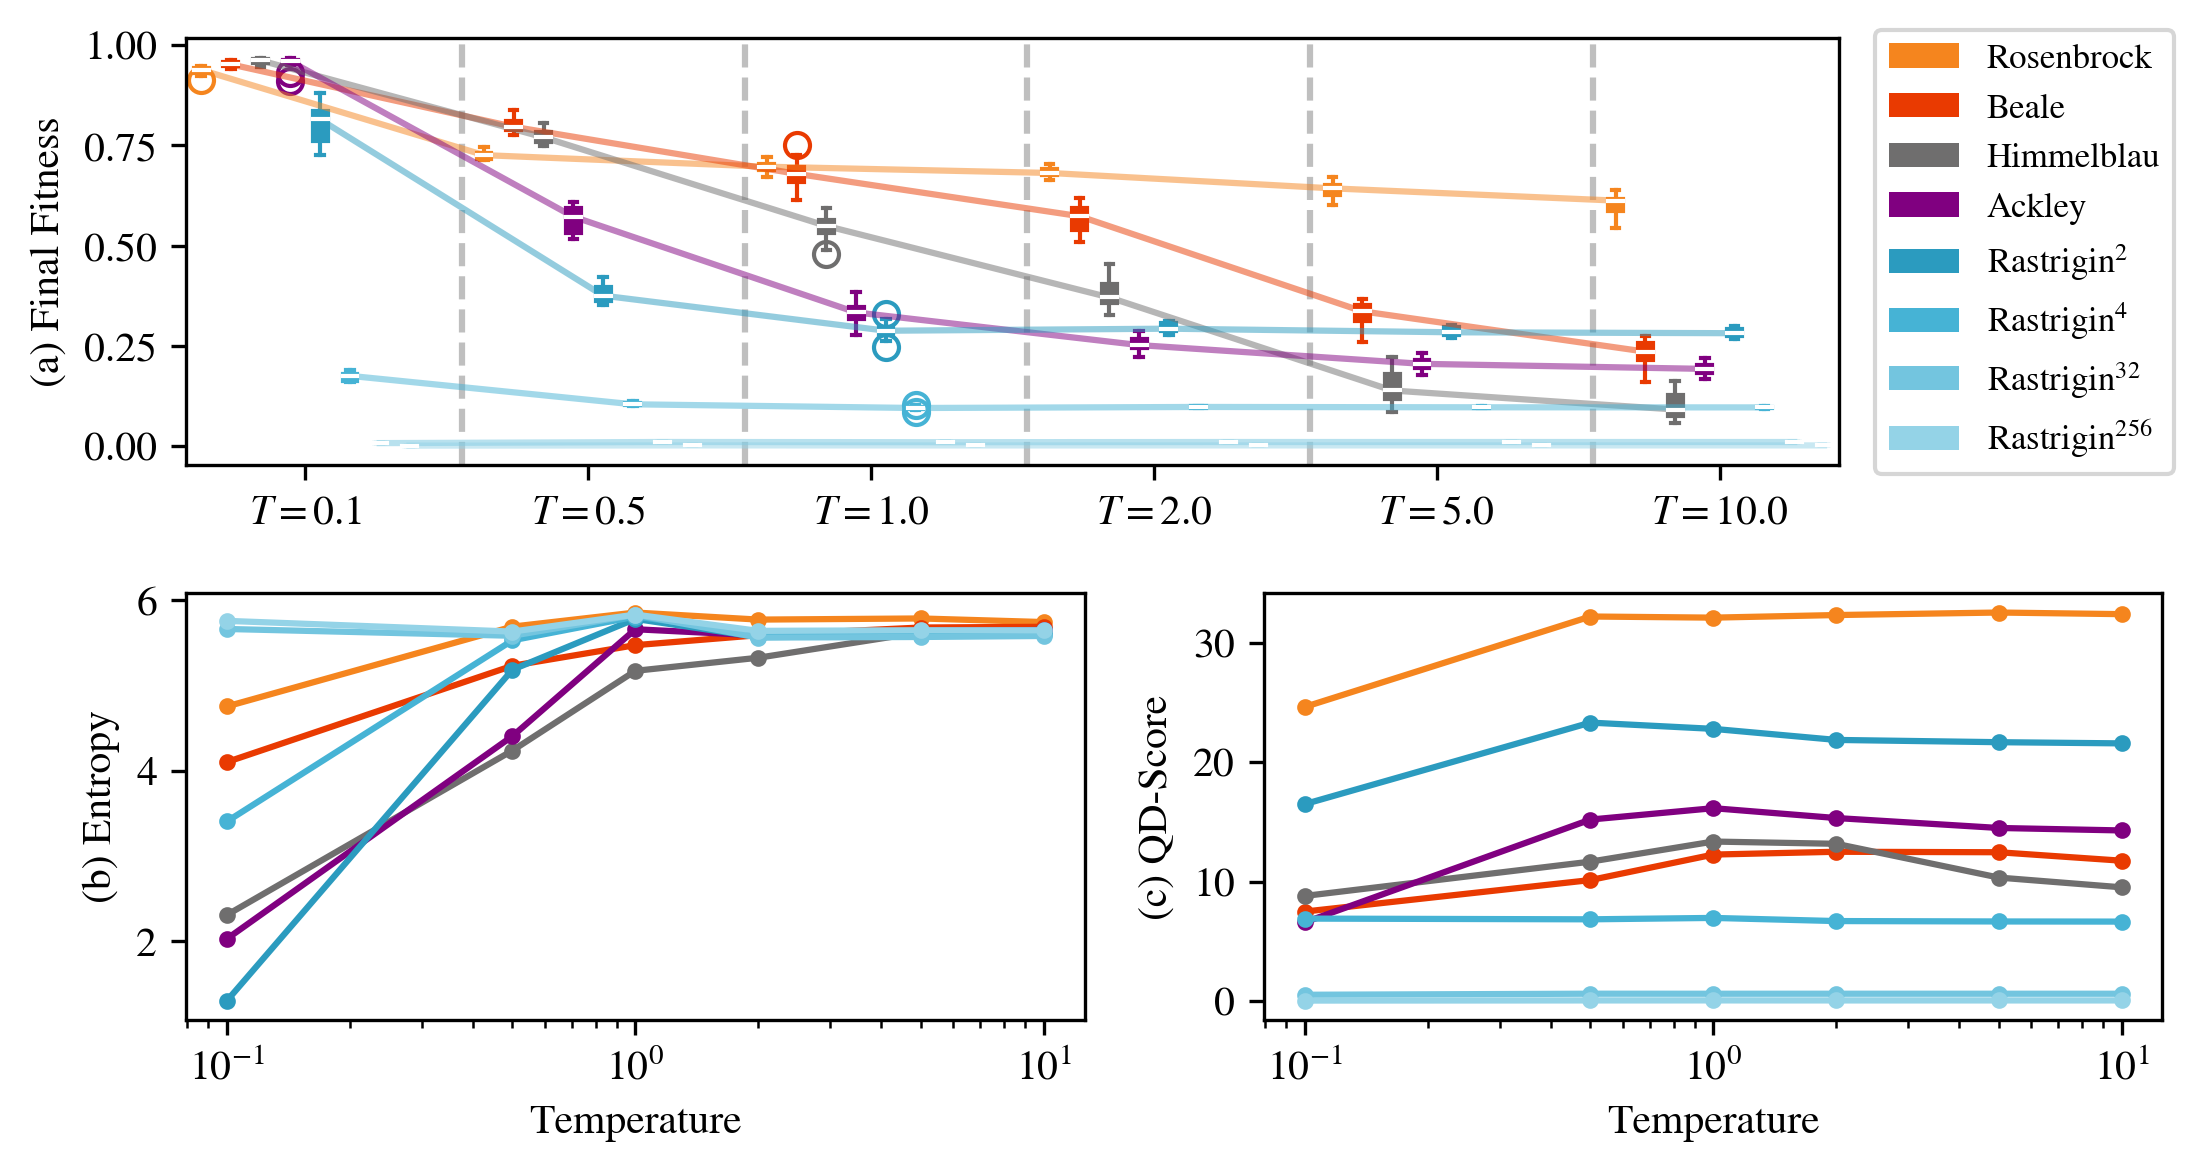
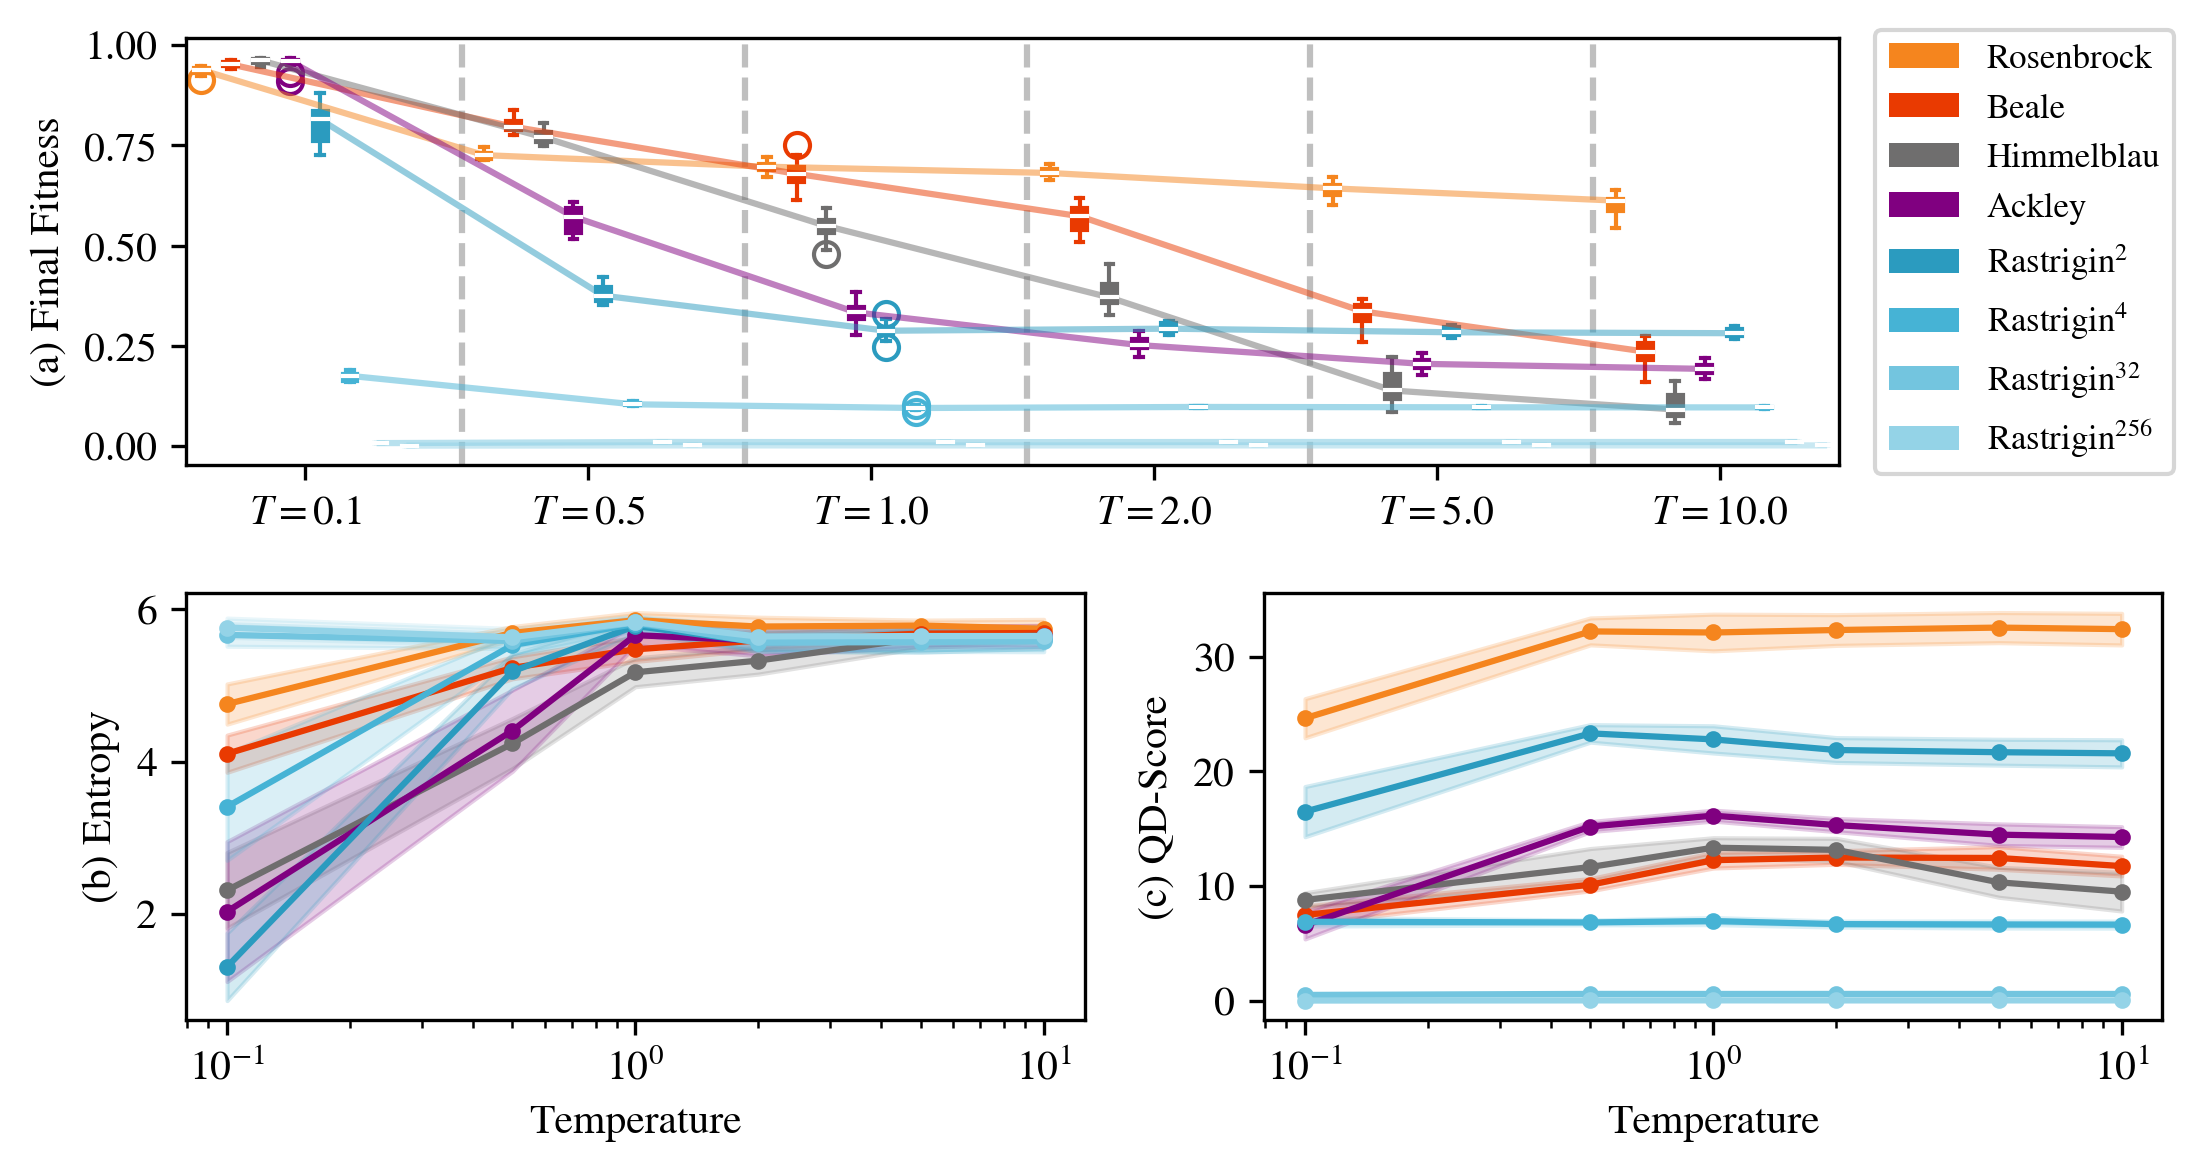
improve plots

diff --git a/experiments/benchmarks/plot_temperature.py b/experiments/benchmarks/plot_temperature.py
@@ -161,11 +161,11 @@ def plot_qd_scores(records, ax=None, savefig=True, legend=True):
         
         ax.plot(temps, scores, '.-', label=name_display[exp_name],
                 color=colors[experiment_names.index(exp_name)])
-        # plt.fill_between(temps, 
-        #                 [s - std for s, std in zip(scores, std_scores)],
-        #                 [s + std for s, std in zip(scores, std_scores)],
-        #                 color=colors[experiment_names.index(exp_name)],
-        #                 alpha=0.2)
+        ax.fill_between(temps, 
+                        [s - std for s, std in zip(scores, std_scores)],
+                        [s + std for s, std in zip(scores, std_scores)],
+                        color=colors[experiment_names.index(exp_name)],
+                        alpha=0.2)
 
     ax.set_xlabel('Temperature')
     ax.set_ylabel('(c) QD-Score')
@@ -184,25 +184,35 @@ def plot_entropy(records, ax=None, savefig=True, legend=True):
     
     # Calculate entropy for each temperature
     entropy_table = []
+    std_table = []
     temperature_list = []
     for record in records:
         avg_entropy = avg_group(point_entropy(record['records'], n=64))
+        std_entropy = std_group(point_entropy(record['records'], n=64))
         temperature_list.append(record['temperature'])
         entropy_table.append(list(avg_entropy.values()))
+        std_table.append(list(std_entropy.values()))
 
     entropy_table = np.array(entropy_table)
+    std_table = np.array(std_table)
 
     # Sort entropy and temperature together
     temperature_list = np.array(temperature_list)
     sorted_indices = np.argsort(temperature_list)
     temperature_list = temperature_list[sorted_indices]
     entropy_table = entropy_table[sorted_indices]
+    std_table = std_table[sorted_indices]
 
     # Create entropy plot
     for i in range(entropy_table.shape[1]):
         ax.plot(temperature_list, entropy_table[:, i], '.-',
                 label=name_display[experiment_names[i]], 
                 color=colors[i])
+        ax.fill_between(temperature_list,
+                       entropy_table[:, i] - std_table[:, i],
+                       entropy_table[:, i] + std_table[:, i],
+                       color=colors[i],
+                       alpha=0.2)
     if legend:
         ax.legend()
     ax.set_xlabel('Temperature')
